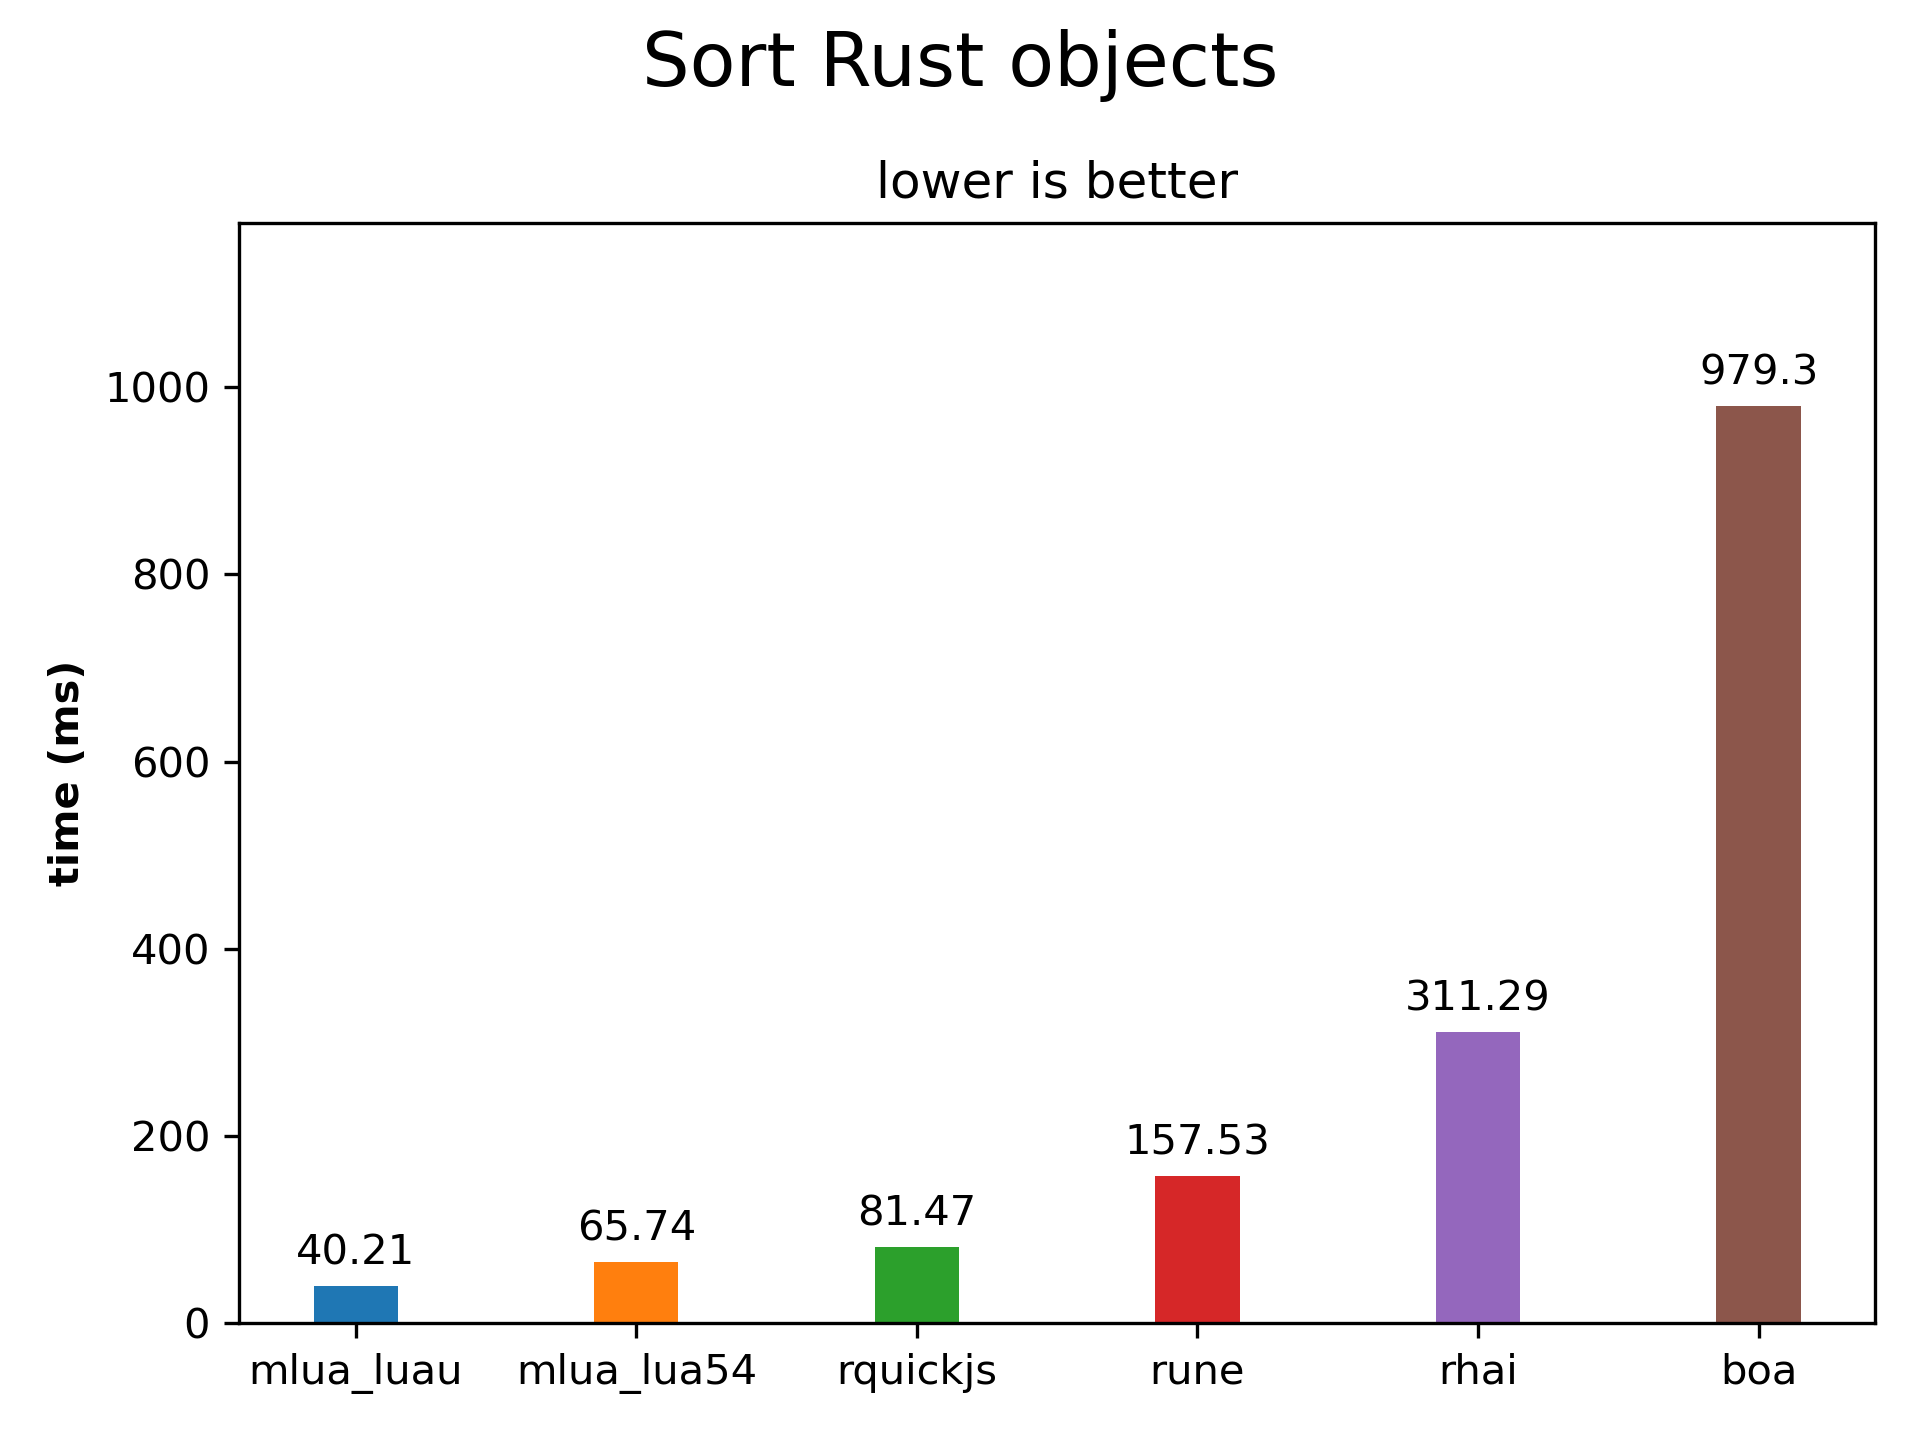
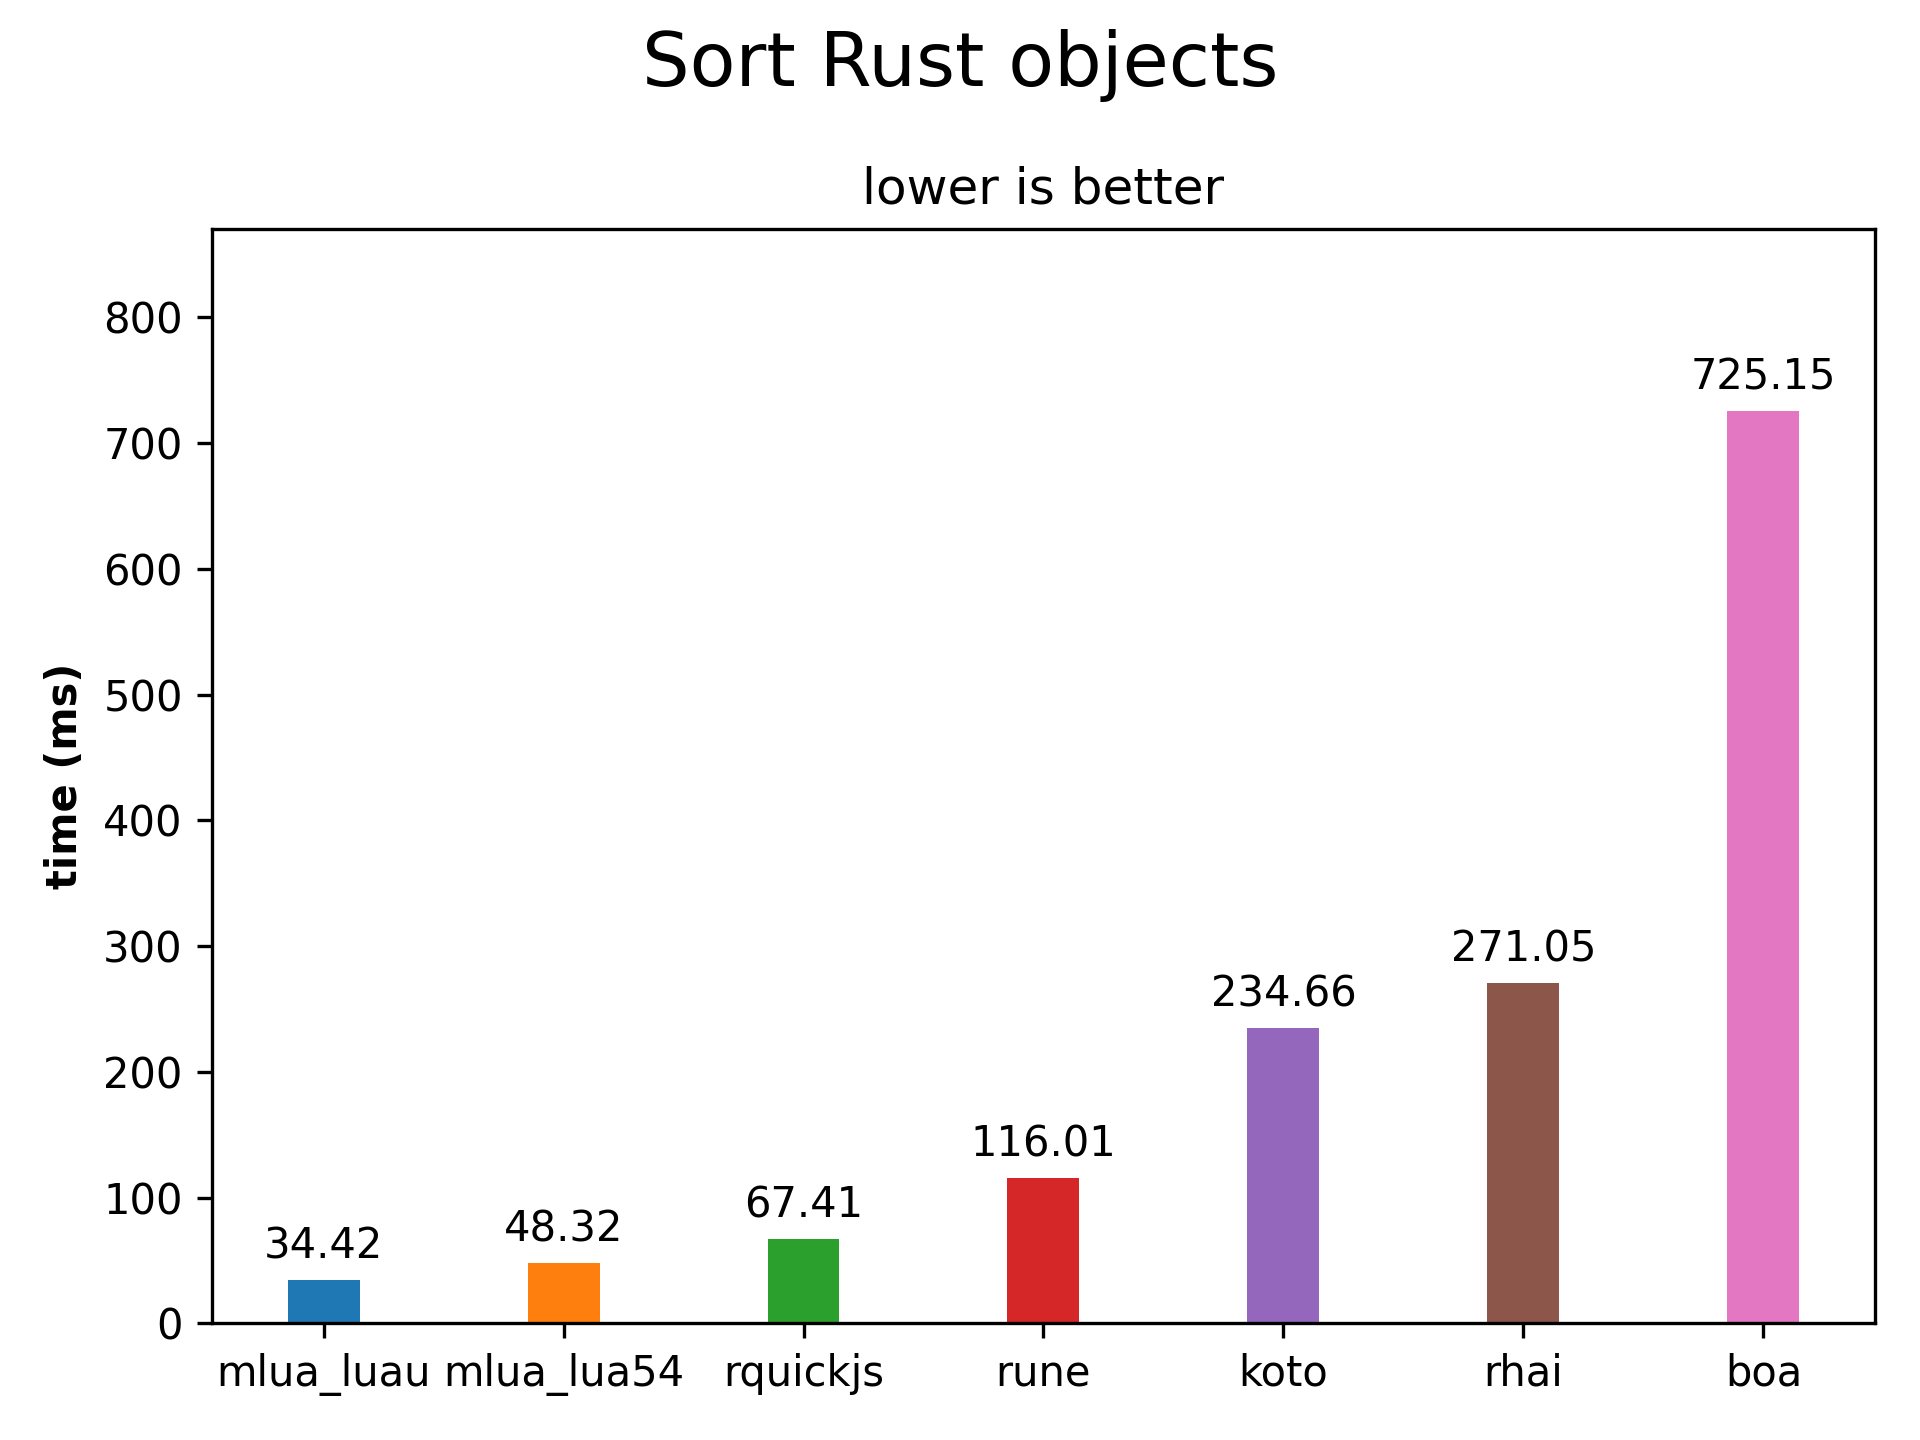
Add koto and update README environment tbl

Changed region(s): [[0.0, 0.0938, 0.9688, 0.9688], [0.875, 0.25, 0.9688, 0.9688], [0.75, 0.6562, 0.8125, 0.9688]]

diff --git a/src/koto.rs b/src/koto.rs
@@ -1,0 +1,58 @@
+use std::rc::Rc;
+
+use koto::{derive::*, prelude::*, Result};
+
+#[derive(Clone, PartialEq, Eq, PartialOrd, Ord, KotoCopy, KotoType)]
+struct RustData(Rc<str>);
+
+#[koto_impl]
+impl RustData {
+    fn new_koto_object(s: &str) -> KObject {
+        let me = Self(s.into());
+        KObject::from(me)
+    }
+}
+
+impl KotoObject for RustData {
+    fn display(&self, ctx: &mut DisplayContext) -> Result<()> {
+        ctx.append(self.0.to_string());
+        Ok(())
+    }
+
+    fn less(&self, rhs: &KValue) -> Result<bool> {
+        if let KValue::Object(kobj) = rhs {
+            let rhs_dc = kobj.cast::<RustData>()?;
+            Ok(*self < *rhs_dc)
+        } else {
+            type_error("RustData object", rhs)
+        }
+    }
+}
+
+pub fn sort_userdata(run: impl FnOnce(&mut dyn FnMut())) -> Result<()> {
+    let mut engine = Koto::default();
+    
+    engine.prelude().add_fn("RustData_new", |ctx| match ctx.args() {
+        [KValue::Str(input)] => {
+            Ok(RustData::new_koto_object(input.as_str()).into())
+        }
+        unexpected => type_error_with_slice("a string", unexpected),
+    });
+
+    engine.prelude().add_fn("rand", |ctx| match ctx.args() {
+        [KValue::Number(n)] => {
+            let res = rand::random::<u32>() as i64 % (n.as_i64());
+            Ok(KNumber::from(res).into())
+        }
+        unexpected => type_error_with_slice("a number", unexpected),
+    });
+
+    let script = include_str!("../scripts/sort_userdata.koto");
+    let _chunk = engine.compile(script)?;
+
+    run(&mut || {
+        engine.run().unwrap();
+    });
+
+    Ok(())
+}

diff --git a/benches/koto.rs b/benches/koto.rs
@@ -1,0 +1,18 @@
+use criterion::{criterion_group, criterion_main, Criterion};
+
+fn benchmark(c: &mut Criterion) {
+    script_bench::koto::sort_userdata(|func| {
+        c.bench_function("Sort Rust objects", |b| {
+            b.iter(|| func());
+        });
+    })
+    .unwrap();
+}
+
+criterion_group! {
+    name = benches;
+    config = Criterion::default().sample_size(10);
+    targets = benchmark,
+}
+
+criterion_main!(benches);

diff --git a/src/lib.rs b/src/lib.rs
@@ -8,3 +8,5 @@ pub mod rhai;
 pub mod rquickjs;
 #[cfg(feature = "rune")]
 pub mod rune;
+#[cfg(feature = "koto")]
+pub mod koto;

diff --git a/README.md b/README.md
@@ -7,6 +7,7 @@ The project goal is to benchmark most popular embedded scripting languages for R
 - [rhai](https://crates.io/crates/rhai)
 - [rquickjs](https://crates.io/crates/rquickjs)
 - [rune](https://crates.io/crates/rune)
+- [koto](https://crates.io/crates/koto)
 
 The benchmark is designed to cover not only the performance of code evaluation but interoperability with Rust too.
 
@@ -18,13 +19,14 @@ Simply run the `bench.py` script to generate images. It requires `cargo criterio
 
 |          |                               |
 |----------|-------------------------------|
-| OS       | Ubuntu 23.04, r6i.8xlarge     |
+| OS       | Pop!_OS 22.04 x86_64          |
 | boa      | v0.18.0                       |
 | mlua     | v0.9.6                        |
 | rhai     | v1.17.1                       |
-| rquickjs | v0.5.1                        |
+| rquickjs | v0.6.2                        |
 | rune     | v0.13.2                       |
-| rustc    | v1.76.0                       |
+| koto     | v0.14.0                       |
+| rustc    | v1.78.0                       |
 
 ## Results
 
